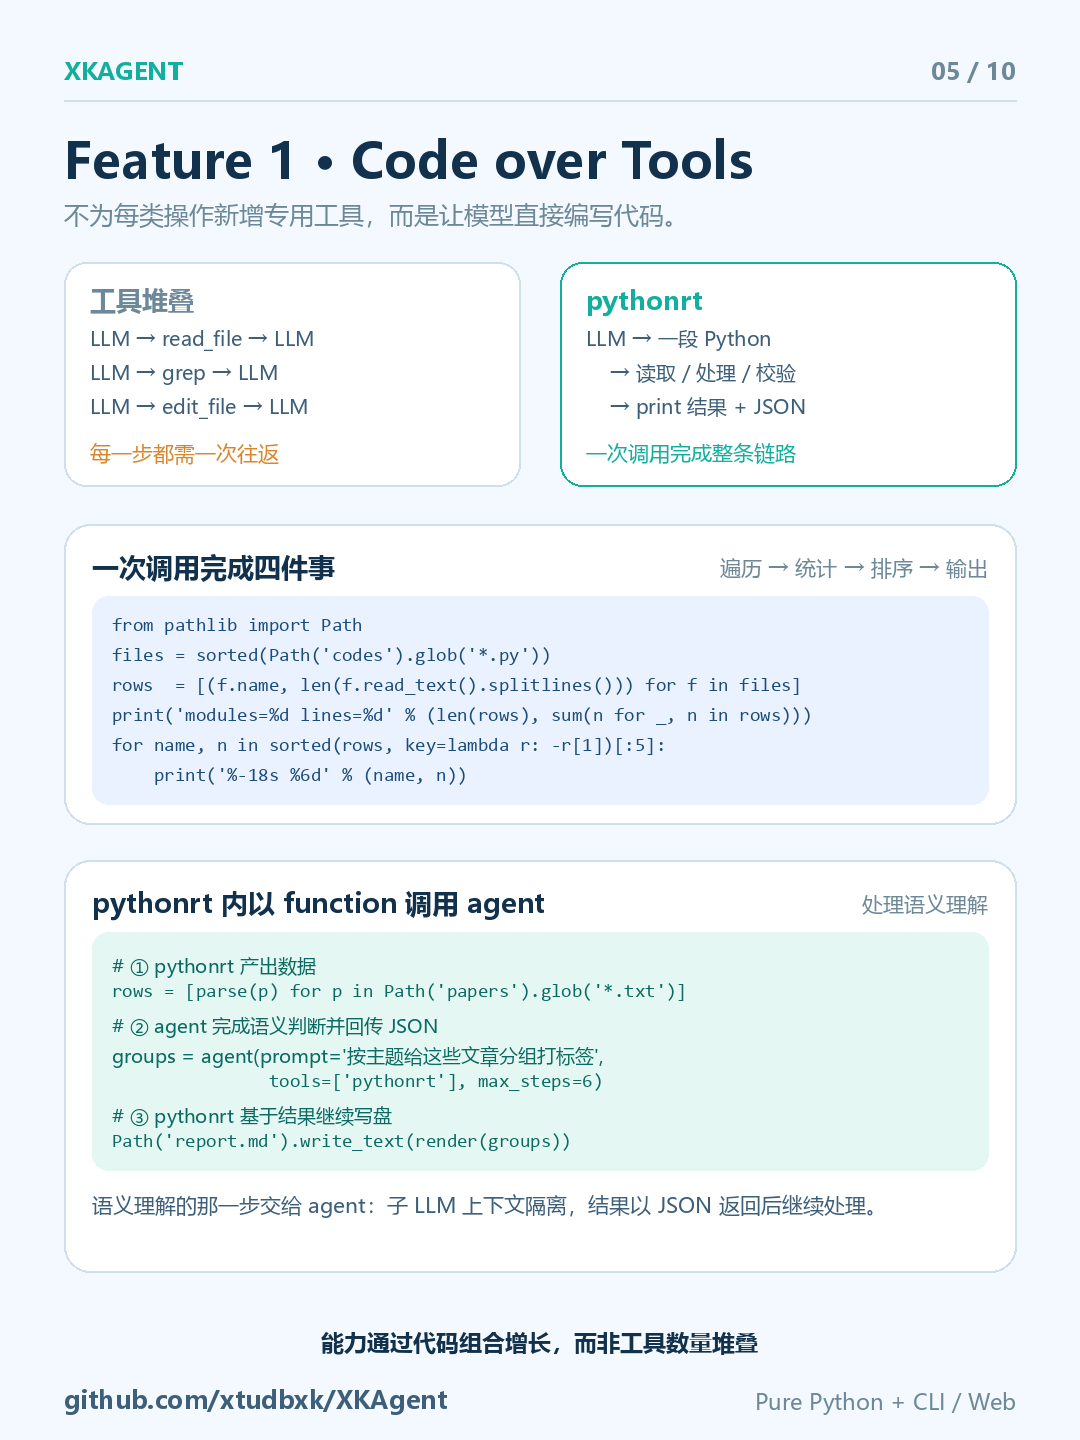
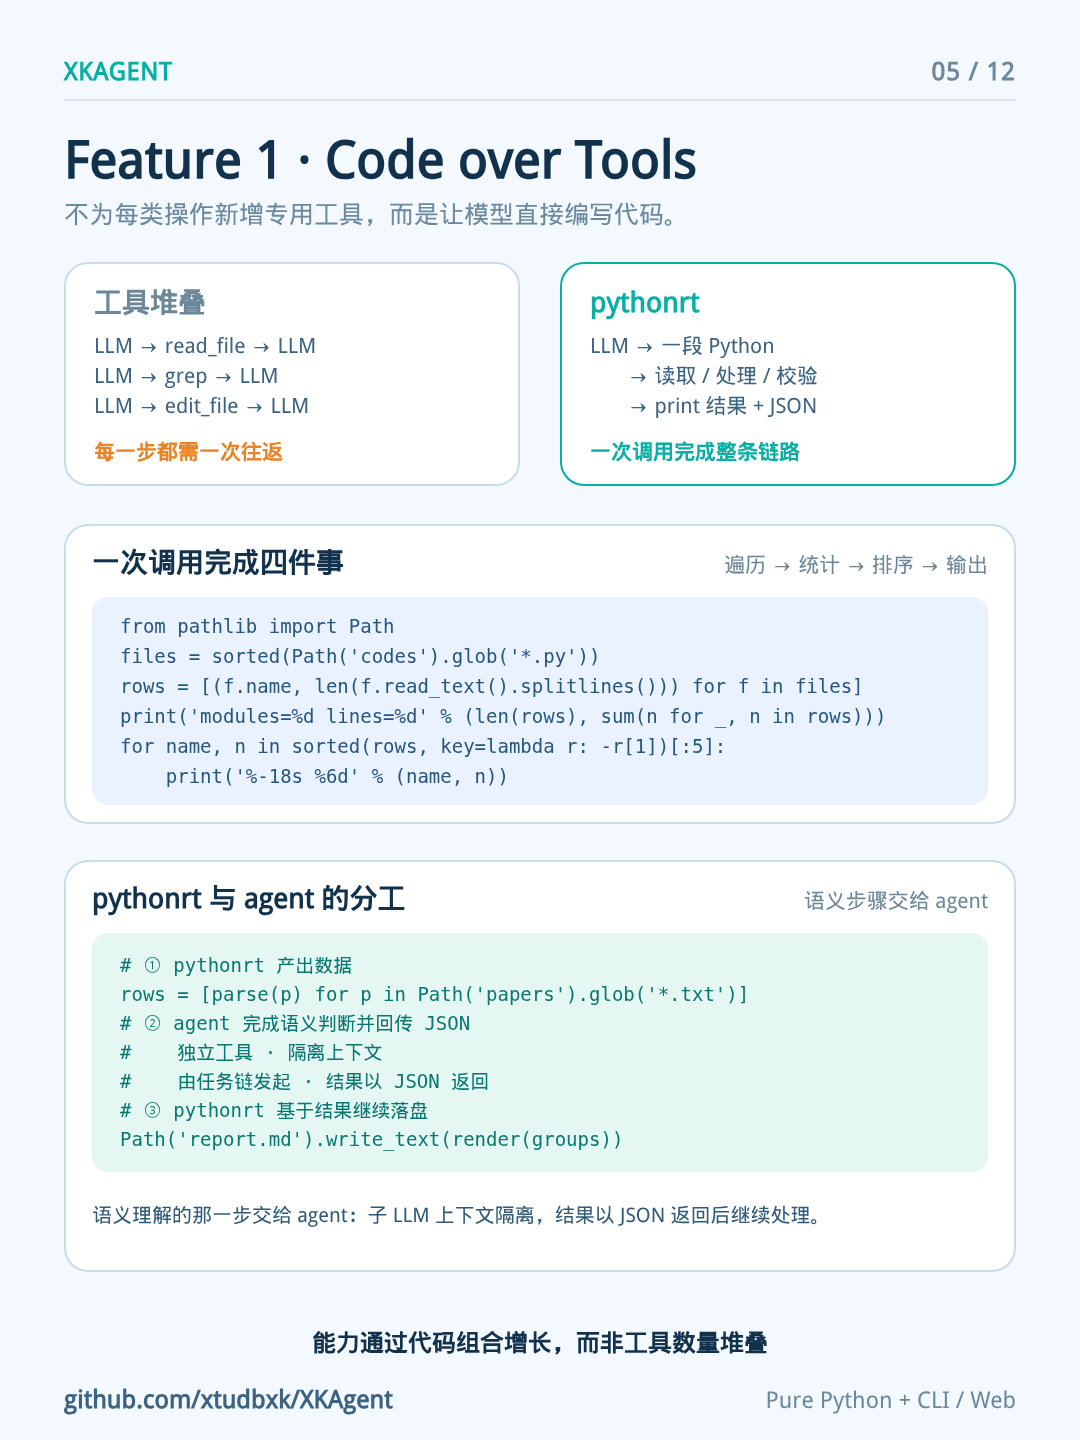
XKAgent 0.2.0 — rednote 素材升级（12 页体系 · callagent 并列 · preview 重排）
rednote 素材全面升级：01 双核架构页（PYTHONRT/CALLAGENT 并列）；03/04/05/07/10 重制；02/06/08/09 页码顺移；preview 12 页拼版重排；rednote.md 编号核对。

diff --git a/rednote.md b/rednote.md
@@ -66,17 +66,17 @@
 
 ### 10. 路径沙箱 · 渐进信任
 
-![08 路径沙箱 · 渐进信任](.xkagent/docs/rednote/08.png)
+![10 路径沙箱 · 渐进信任](.xkagent/docs/rednote/08.png)
 
 
 ### 11. Build Your Own XKAgent
 
-![09 Build Your Own XKAgent](.xkagent/docs/rednote/09.png)
+![11 Build Your Own XKAgent](.xkagent/docs/rednote/09.png)
 
 
 ### 12. 总结 · 欢迎 star & fork
 
-![10 总结 · 欢迎 star & fork](.xkagent/docs/rednote/10.png)
+![12 总结 · 欢迎 star & fork](.xkagent/docs/rednote/10.png)
 
 
 ---
